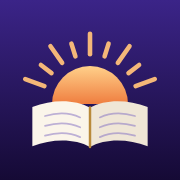
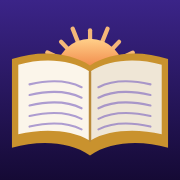
أيقونة جديدة: مصحف مفتوح بشمس مشرقة (#7)
* Extend non-Muslims gate: Islam, why, how, guidance path, FAQ, comparison, ethics, converts, listening, contact

Claude-Session: https://claude.ai/code/session_01LTvvj9sbASgMat7qJARXNF

* Non-Muslims gate batch 2: pillars map, Torah and Gospel, key verses, lessons, after Islam, objections, family

Claude-Session: https://claude.ai/code/session_01LTvvj9sbASgMat7qJARXNF

* New app icon: clear open Quran book with rising sun, all sizes; bump shell cache

Claude-Session: https://claude.ai/code/session_01LTvvj9sbASgMat7qJARXNF

---------

diff --git a/sw.js b/sw.js
@@ -1,5 +1,5 @@
 /* موسوعة القرآن الكريم service worker: app shell + core data precached; tafsir chunks and fonts cached on first use */
-const SHELL = 'qenc-shell-v2', DATA = 'qenc-data-v1', CORE = ["tafasir.js", "./", "index.html", "app.js", "tools.js", "app.css", "theme.css", "fonts.css", "fonts/amiri-quran-arabic-400-normal.woff2", "fonts/amiri-quran-latin-400-normal.woff2", "fonts/aref-ruqaa-arabic-700-normal.woff2", "fonts/aref-ruqaa-latin-700-normal.woff2", "fonts/readex-pro-arabic-wght-normal.woff2", "fonts/readex-pro-latin-wght-normal.woff2", "manifest.webmanifest", "config.json", "icons/icon-192.png", "icons/icon-512.png", "data/quran.txt", "data/words.txt", "data/topics.txt", "data/tafsir.json", "data/geo.json", "data/qasas.txt", "data/t/muyassar/0.txt", "data/t/gharib/0.txt", "data/tr/index.json", "data/i18n/en.json", "mushaf.js", "fiqh.js", "study.js", "recite.js", "progress.js", "adhan.js", "mushaf.css", "fonts/kfgqpc-hafs-uthmanic-v18.woff2", "data/mushaf.txt", "mods/sira.js", "mods/nm.js", "mods/duaq.js", "mods/naskh.js", "mods/arbain.js", "mods/taam.js", "mods/hajj.js", "mods/asnaf.js", "mods/jannah.js", "mods/jamal.js", "mods/tawhid.js", "mods/ruqya.js", "mods/wazifa.js", "mods/amthal.js", "mods/asma.js", "mods/mawdui.js", "mods/rusul.js", "mods/tibb.js", "mods/maal.js", "mods/nabat.js", "mods/tawsiyat.js", "mods/maadin.js", "mods/hadithq.js", "mods/qasasx.js", "mods/fiqhq.js", "mods/bir.js", "mods/amal.js", "mods/ijaz.js", "mods/taqwa.js", "mods/mumin.js", "mods/rsifat.js", "mods/taamul.js", "mods/sabr.js", "mods/nsira.js", "mods/hayawan.js", "mods/nikah.js", "mods/tifl.js", "mods/qtl.js", "mods/qatlas.js"];
+const SHELL = 'qenc-shell-v3', DATA = 'qenc-data-v1', CORE = ["tafasir.js", "./", "index.html", "app.js", "tools.js", "app.css", "theme.css", "fonts.css", "fonts/amiri-quran-arabic-400-normal.woff2", "fonts/amiri-quran-latin-400-normal.woff2", "fonts/aref-ruqaa-arabic-700-normal.woff2", "fonts/aref-ruqaa-latin-700-normal.woff2", "fonts/readex-pro-arabic-wght-normal.woff2", "fonts/readex-pro-latin-wght-normal.woff2", "manifest.webmanifest", "config.json", "icons/icon-192.png", "icons/icon-512.png", "data/quran.txt", "data/words.txt", "data/topics.txt", "data/tafsir.json", "data/geo.json", "data/qasas.txt", "data/t/muyassar/0.txt", "data/t/gharib/0.txt", "data/tr/index.json", "data/i18n/en.json", "mushaf.js", "fiqh.js", "study.js", "recite.js", "progress.js", "adhan.js", "mushaf.css", "fonts/kfgqpc-hafs-uthmanic-v18.woff2", "data/mushaf.txt", "mods/sira.js", "mods/nm.js", "mods/duaq.js", "mods/naskh.js", "mods/arbain.js", "mods/taam.js", "mods/hajj.js", "mods/asnaf.js", "mods/jannah.js", "mods/jamal.js", "mods/tawhid.js", "mods/ruqya.js", "mods/wazifa.js", "mods/amthal.js", "mods/asma.js", "mods/mawdui.js", "mods/rusul.js", "mods/tibb.js", "mods/maal.js", "mods/nabat.js", "mods/tawsiyat.js", "mods/maadin.js", "mods/hadithq.js", "mods/qasasx.js", "mods/fiqhq.js", "mods/bir.js", "mods/amal.js", "mods/ijaz.js", "mods/taqwa.js", "mods/mumin.js", "mods/rsifat.js", "mods/taamul.js", "mods/sabr.js", "mods/nsira.js", "mods/hayawan.js", "mods/nikah.js", "mods/tifl.js", "mods/qtl.js", "mods/qatlas.js"];
 self.addEventListener('install', e => e.waitUntil(caches.open(SHELL).then(c => c.addAll(CORE.map(u => new Request(u, { cache: 'reload' })))).then(() => self.skipWaiting())));
 self.addEventListener('activate', e => e.waitUntil(caches.keys().then(ks => Promise.all(ks.filter(k => k.startsWith('qenc-shell-') && k !== SHELL).map(k => caches.delete(k)))).then(() => self.clients.claim())));
 self.addEventListener('fetch', e => {
